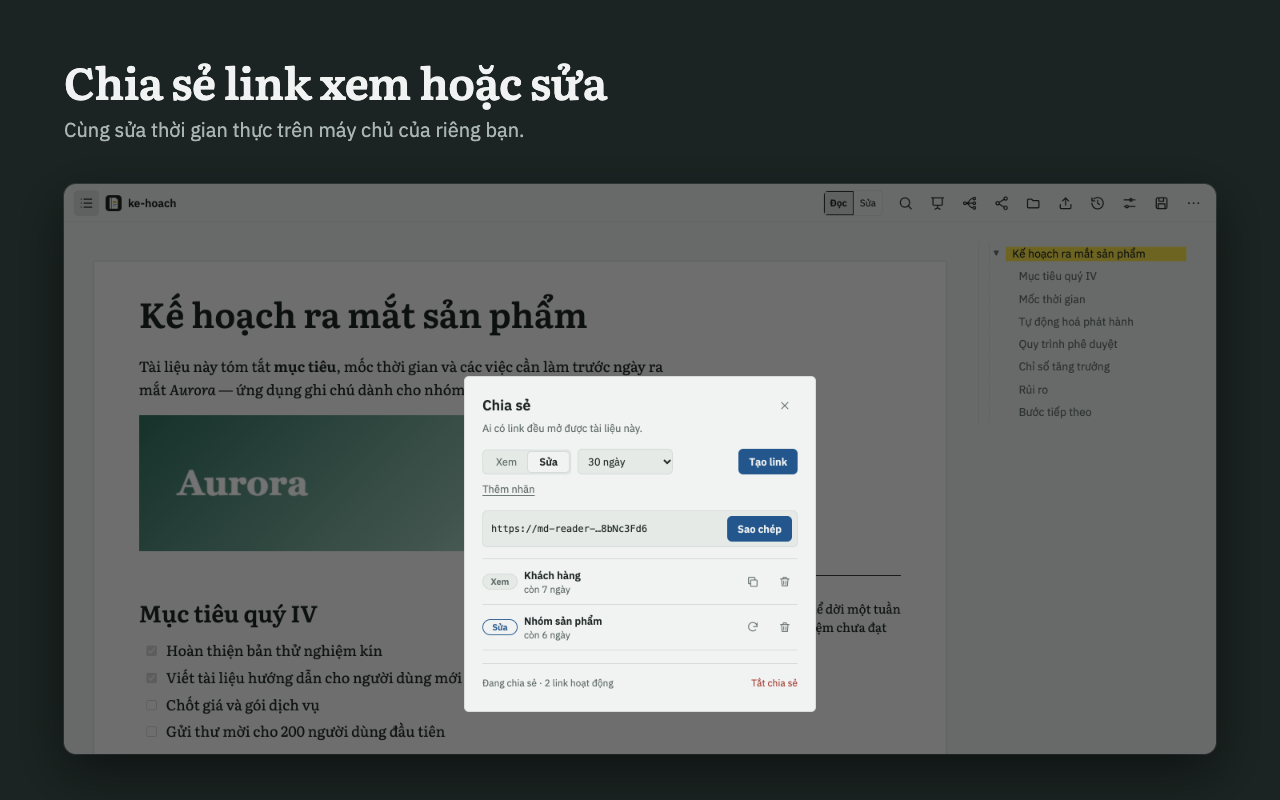
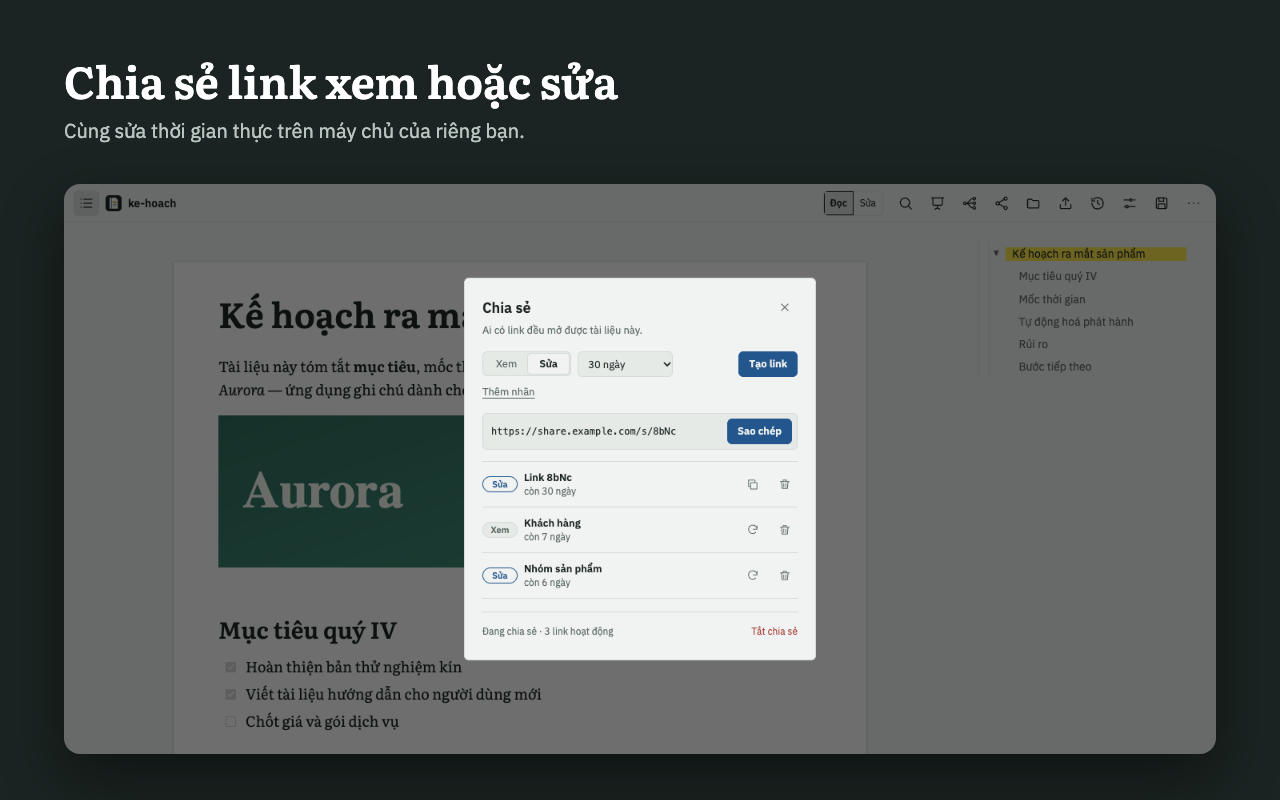
docs(store): bộ ảnh tiếng Anh, README Anh dùng ảnh en, sửa ảnh trình chiếu/sơ đồ/chia sẻ

diff --git a/README.md b/README.md
@@ -27,7 +27,7 @@
 </p>
 
 <p align="center">
-  <img src="docs/store/screenshots/01-doc.png" alt="Markdown reading page, Paper palette" width="100%">
+  <img src="docs/store/screenshots/en/01-doc.png" alt="Markdown reading page, Paper palette" width="100%">
 </p>
 
 ## Why MD Reader
@@ -45,43 +45,43 @@ Common ground: no account, no tracking, bundled fonts, MIT open source.
 <table>
   <tr>
     <td width="50%" valign="top">
-      <img src="docs/store/screenshots/01-doc.png" alt="Reading">
+      <img src="docs/store/screenshots/en/01-doc.png" alt="Reading">
       <h4>Comfortable reading</h4>
       Literata type, a readable column width, a table of contents that follows the section you are reading, <code>[!NOTE]</code> callouts set in the margin. Tables, KaTeX, mermaid, excalidraw, highlighted code with a copy button. Search the document with ⌘F.
     </td>
     <td width="50%" valign="top">
-      <img src="docs/store/screenshots/02-edit.png" alt="Editing on the page">
+      <img src="docs/store/screenshots/en/02-edit.png" alt="Editing on the page">
       <h4>Edit right on the page</h4>
       Two modes, Read / Edit, with live preview. Images, checkboxes, code, callouts, formulas and mermaid render as you edit. Switching modes keeps your position. Save to disk with ⌘S, with a diff when the file changed outside.
     </td>
   </tr>
   <tr>
     <td width="50%" valign="top">
-      <img src="docs/store/screenshots/03-table.png" alt="Grid tables">
+      <img src="docs/store/screenshots/en/03-table.png" alt="Grid tables">
       <h4>Grid tables</h4>
       Type straight into cells, move with Tab / Enter / ↑↓, add or delete rows and columns; click "Edit table source" if you need to. Paste or drag images: small ones are embedded in the file, large ones go to an <code>assets/</code> folder next to the file, and shared documents upload to the server.
     </td>
     <td width="50%" valign="top">
-      <img src="docs/store/screenshots/04-share.png" alt="Sharing">
+      <img src="docs/store/screenshots/en/04-share.png" alt="Sharing">
       <h4>Share and co-edit</h4>
       View or edit links, realtime collaboration, presence, per-line blame, history and restore. Revoking a link blocks access immediately. Requires a self-hosted server (see below).
     </td>
   </tr>
   <tr>
     <td width="50%" valign="top">
-      <img src="docs/store/screenshots/05-present.png" alt="Presenting">
+      <img src="docs/store/screenshots/en/05-present.png" alt="Presenting">
       <h4>Present</h4>
       Split slides on <code>---</code> or headings, scaled automatically to the screen. The speaker view has a clock, the next slide and notes; export a landscape slide PDF.
     </td>
     <td width="50%" valign="top">
-      <img src="docs/store/screenshots/06-dark.png" alt="Graphite">
+      <img src="docs/store/screenshots/en/06-dark.png" alt="Graphite">
       <h4>Three palettes</h4>
       Paper, Graphite (dark), High contrast. The interface follows the browser language (Vietnamese / English) and can be changed in Settings → Language.
     </td>
   </tr>
   <tr>
     <td width="50%" valign="top">
-      <img src="docs/store/screenshots/07-mindmap.png" alt="Mind map">
+      <img src="docs/store/screenshots/en/07-mindmap.png" alt="Mind map">
       <h4>Mind map</h4>
       Built from headings, colored by branch, keyboard navigation, zoom and pan, click a node to scroll to that passage. Export SVG / PNG (⌘M to open).
     </td>
